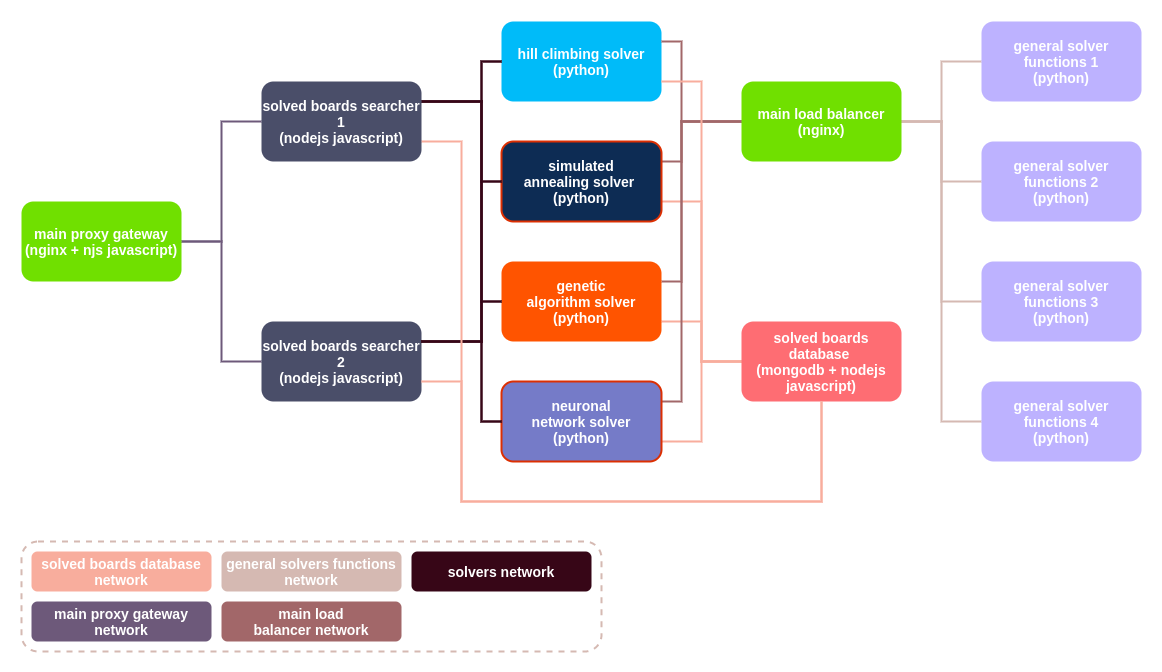
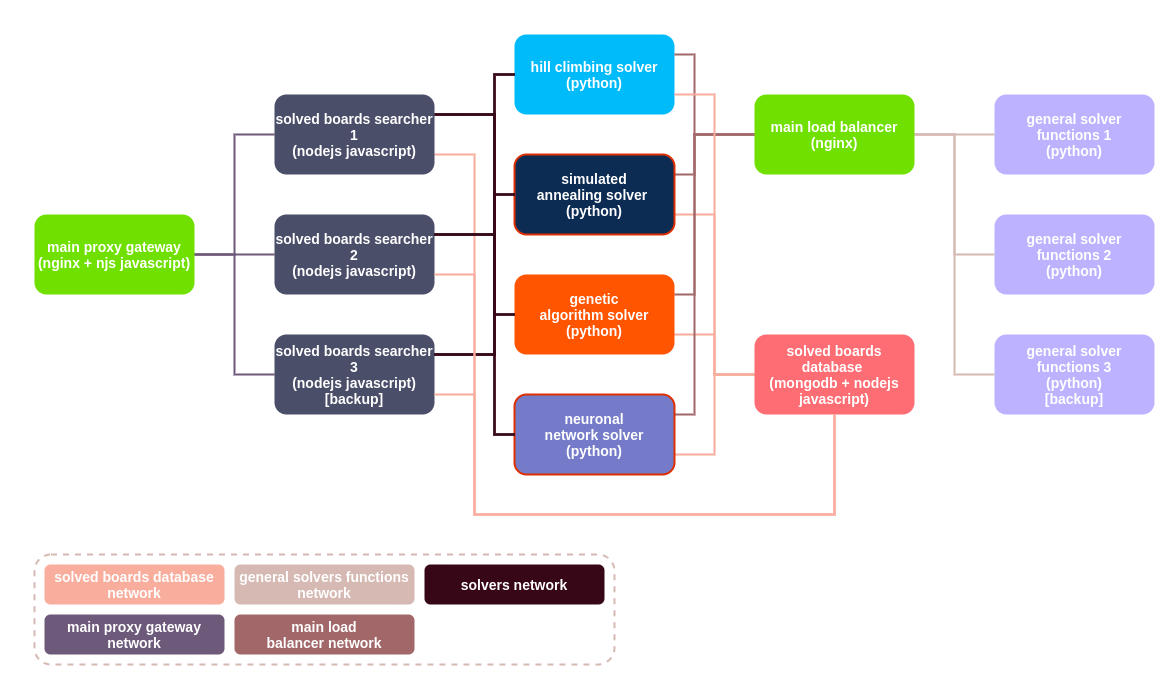
correcciones en las funciones de validacion del proxy, cambios en la arquitectura aprovechando los servidores backup de nginx, meoras en las colecciones de requests

Changed region(s): [[0.0, 0.0312, 1.0, 0.7812], [0.0, 0.8125, 0.5267, 1.0]]

diff --git a/main_proxy_gateway_container/nginx_validator.js b/main_proxy_gateway_container/nginx_validator.js
@@ -123,50 +123,54 @@ function check_request_mandatory_requirements(request) {
 
     // Checking if the board can be solved.
 
-    for (
-        var row_index = 0; row_index < request_body.board_array.length; row_index++
-    ) {
-        if (valid_request_body == true) {
-            var row_dict = new Object();
-            for (
-                var column_index = 0; column_index < request_body.board_array.length; column_index++
-            ) {
-                var current_number = request_body.board_array[row_index][column_index];
-                if (current_number != 0 && !(current_number in row_dict)) {
-                    row_dict[current_number] = [row_index, column_index];
-                } else if (current_number != 0 && current_number in row_dict) {
-                    request.error(
-                        `the board have a fixed number repeated: ${current_number} is in te position (${row_dict[current_number][0]}, ${row_dict[current_number][1]}) and (${row_index}, ${column_index})`
-                    );
-                    valid_request_body = false;
-                    break;
+    if (valid_request_body == true) {
+        for (
+            var row_index = 0; row_index < request_body.board_array.length; row_index++
+        ) {
+            if (valid_request_body == true) {
+                var row_dict = new Object();
+                for (
+                    var column_index = 0; column_index < request_body.board_array.length; column_index++
+                ) {
+                    var current_number = request_body.board_array[row_index][column_index];
+                    if (current_number != 0 && !(current_number in row_dict)) {
+                        row_dict[current_number] = [row_index, column_index];
+                    } else if (current_number != 0 && current_number in row_dict) {
+                        request.error(
+                            `the board have a fixed number repeated: ${current_number} is in te position (${row_dict[current_number][0]}, ${row_dict[current_number][1]}) and (${row_index}, ${column_index})`
+                        );
+                        valid_request_body = false;
+                        break;
+                    }
                 }
+            } else {
+                break;
             }
-        } else {
-            break;
         }
     }
-    for (
-        var row_index = 0; row_index < request_body.board_array.length; row_index++
-    ) {
-        if (valid_request_body == true) {
-            var col_dict = new Object();
-            for (
-                var column_index = 0; column_index < request_body.board_array.length; column_index++
-            ) {
-                var current_number = request_body.board_array[column_index][row_index];
-                if (current_number != 0 && !(current_number in col_dict)) {
-                    col_dict[current_number] = [row_index, column_index];
-                } else if (current_number != 0 && current_number in col_dict) {
-                    request.error(
-                        `the board have a fixed number repeated: ${current_number} is in te position (${col_dict[current_number][0]}, ${col_dict[current_number][1]}) and (${row_index}, ${column_index})`
-                    );
-                    valid_request_body = false;
-                    break;
+    if (valid_request_body == true) {
+        for (
+            var row_index = 0; row_index < request_body.board_array.length; row_index++
+        ) {
+            if (valid_request_body == true) {
+                var col_dict = new Object();
+                for (
+                    var column_index = 0; column_index < request_body.board_array.length; column_index++
+                ) {
+                    var current_number = request_body.board_array[column_index][row_index];
+                    if (current_number != 0 && !(current_number in col_dict)) {
+                        col_dict[current_number] = [row_index, column_index];
+                    } else if (current_number != 0 && current_number in col_dict) {
+                        request.error(
+                            `the board have a fixed number repeated: ${current_number} is in te position (${col_dict[current_number][0]}, ${col_dict[current_number][1]}) and (${row_index}, ${column_index})`
+                        );
+                        valid_request_body = false;
+                        break;
+                    }
                 }
+            } else {
+                break;
             }
-        } else {
-            break;
         }
     }
     if (valid_request_body == true) {
